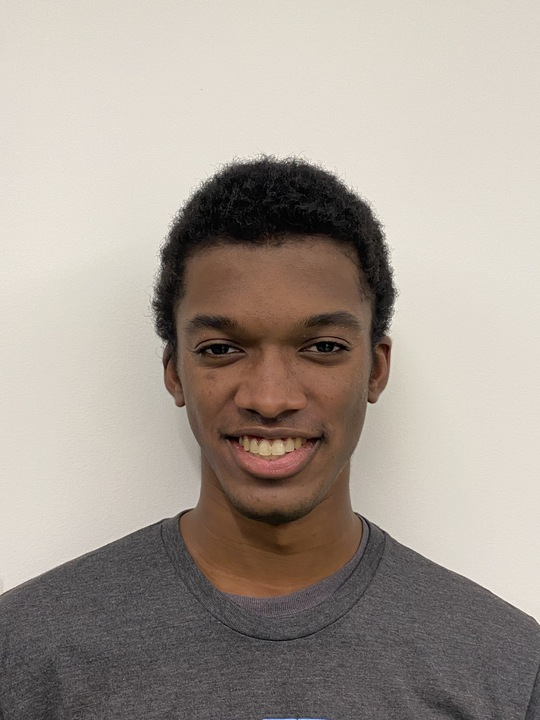
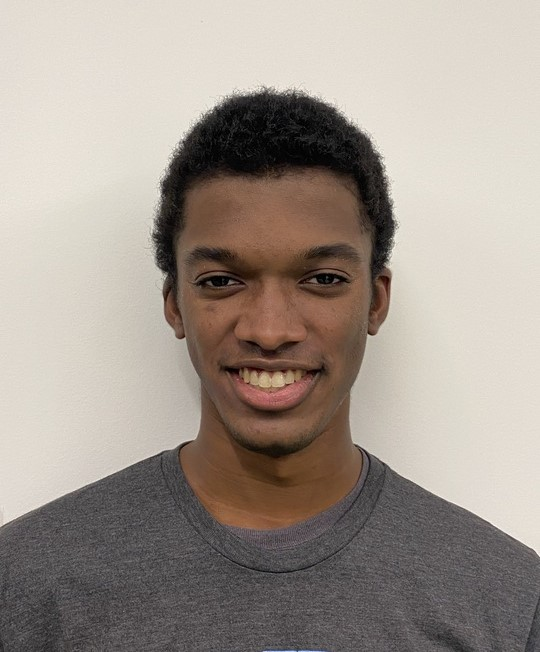
update headshots

diff --git a/assets/css/style.css b/assets/css/style.css
@@ -377,8 +377,28 @@ h6 {
   width: 100%;
   height: auto;
 }
+.carousel .carousel-inner img {
+  max-width: 100%;      /* Ensure the image does not overflow its container width */
+  max-height: 70vh;     /* Limit the image height to fit within the viewport */
+  object-fit: contain;  /* Ensures the entire image fits within the container */
+  width: 100%;          /* Stretches the image horizontally within the container */
+  height: auto;         /* Maintains the aspect ratio */
+  background-color: transparent; /* Ensures there are no background bars (transparent) */
+}
 
-/* #hero .carousel,
+@media (min-width: 576px) {
+  .carousel .carousel-inner img {
+    max-height: 60vh;  /* Adjust max height for medium screens */
+  }
+}
+
+@media (min-width: 1200px) {
+  .carousel .carousel-inner img {
+    max-height: 50vh;  /* Adjust max height for large screens */
+  }
+}
+
+#hero .carousel,
 #hero .carousel-inner,
 #hero .carousel-item,
 #hero .carousel-item::before {
@@ -444,28 +464,25 @@ h6 {
   left: 0;
   transform: translate3d(0, 0, 0);
 }
+
 #hero .carousel-control-next-icon,
 #hero .carousel-control-prev-icon {
-  background: none;
-  font-size: 30px;
-  line-height: 0;
-  width: auto;
-  height: auto;
-  background: rgba(255, 255, 255, 0.2);
-  border-radius: 50px;
-  transition: 0.3s;
-  color: rgba(255, 255, 255, 0.5);
-  width: 54px;
-  height: 54px;
-  display: flex;
-  align-items: center;
-  justify-content: center;
+  background: none;  /* Remove default background */
+  color: white;  /* White arrows */
+  font-size: 30px;  /* Arrow size */
 }
+
+#hero .carousel-control-next:hover,
+#hero .carousel-control-prev:hover {
+  background: rgba(0, 0, 0, 0.6);  /* Darker semi-transparent background on hover */
+}
+
 #hero .carousel-control-next-icon:hover,
 #hero .carousel-control-prev-icon:hover {
-  background: rgba(255, 255, 255, 0.3);
-  color: rgba(255, 255, 255, 0.8);
+  color: #fff;  /* Keep arrow color white on hover */
 }
+
+
 #hero .carousel-indicators li {
   cursor: pointer;
   background: #fff;
@@ -522,7 +539,7 @@ h6 {
   #hero {
     height: 120vh;
   }
-} */
+}
 
 /*--------------------------------------------------------------
 # Sections General
@@ -1244,21 +1261,27 @@ section {
   align-items: center;
 }
 .blog .entry .img-fluid {
+  max-width: 100%;
   max-height: 60vw;
+  height: auto;
+  object-fit: contain; /* Or "contain" if you want the entire image visible */
   padding-top: 10px;
   padding-bottom: 10px;
 }
+
 @media (min-width: 576px) {
   .blog .entry .img-fluid {
-    max-height: 30vw;
+    max-height: none; /* Remove or adjust if needed */
   }
 }
-/* @media (min-width: 1200px) {
-  .blog .entry .img-fluid {
-    max-height: 20vw;
 
+/* Optional: Uncomment and modify for larger screens */
+@media (min-width: 1200px) {
+  .blog .entry .img-fluid {
+    max-height: none; /* Allow natural scaling */
   }
-} */
+}
+
 
 .blog .entry .inline-img-3 {
   width: 32%;

diff --git a/team.html b/team.html
@@ -212,7 +212,7 @@
           
           <div class="col-lg">
             <div class="member d-flex align-items-start mx-auto">
-              <div class="pic"><img src="Pictures/Headshots/no-headshot.png" class="img-fluid team-img" alt=""></div>
+              <div class="pic"><img src="Pictures/Headshots/jack-headshot.jpg" class="img-fluid team-img" alt=""></div>
               <div class="member-info">
                 <h4>Jack Bolte</h4>
                 <span>EE Co-Lead</span>
